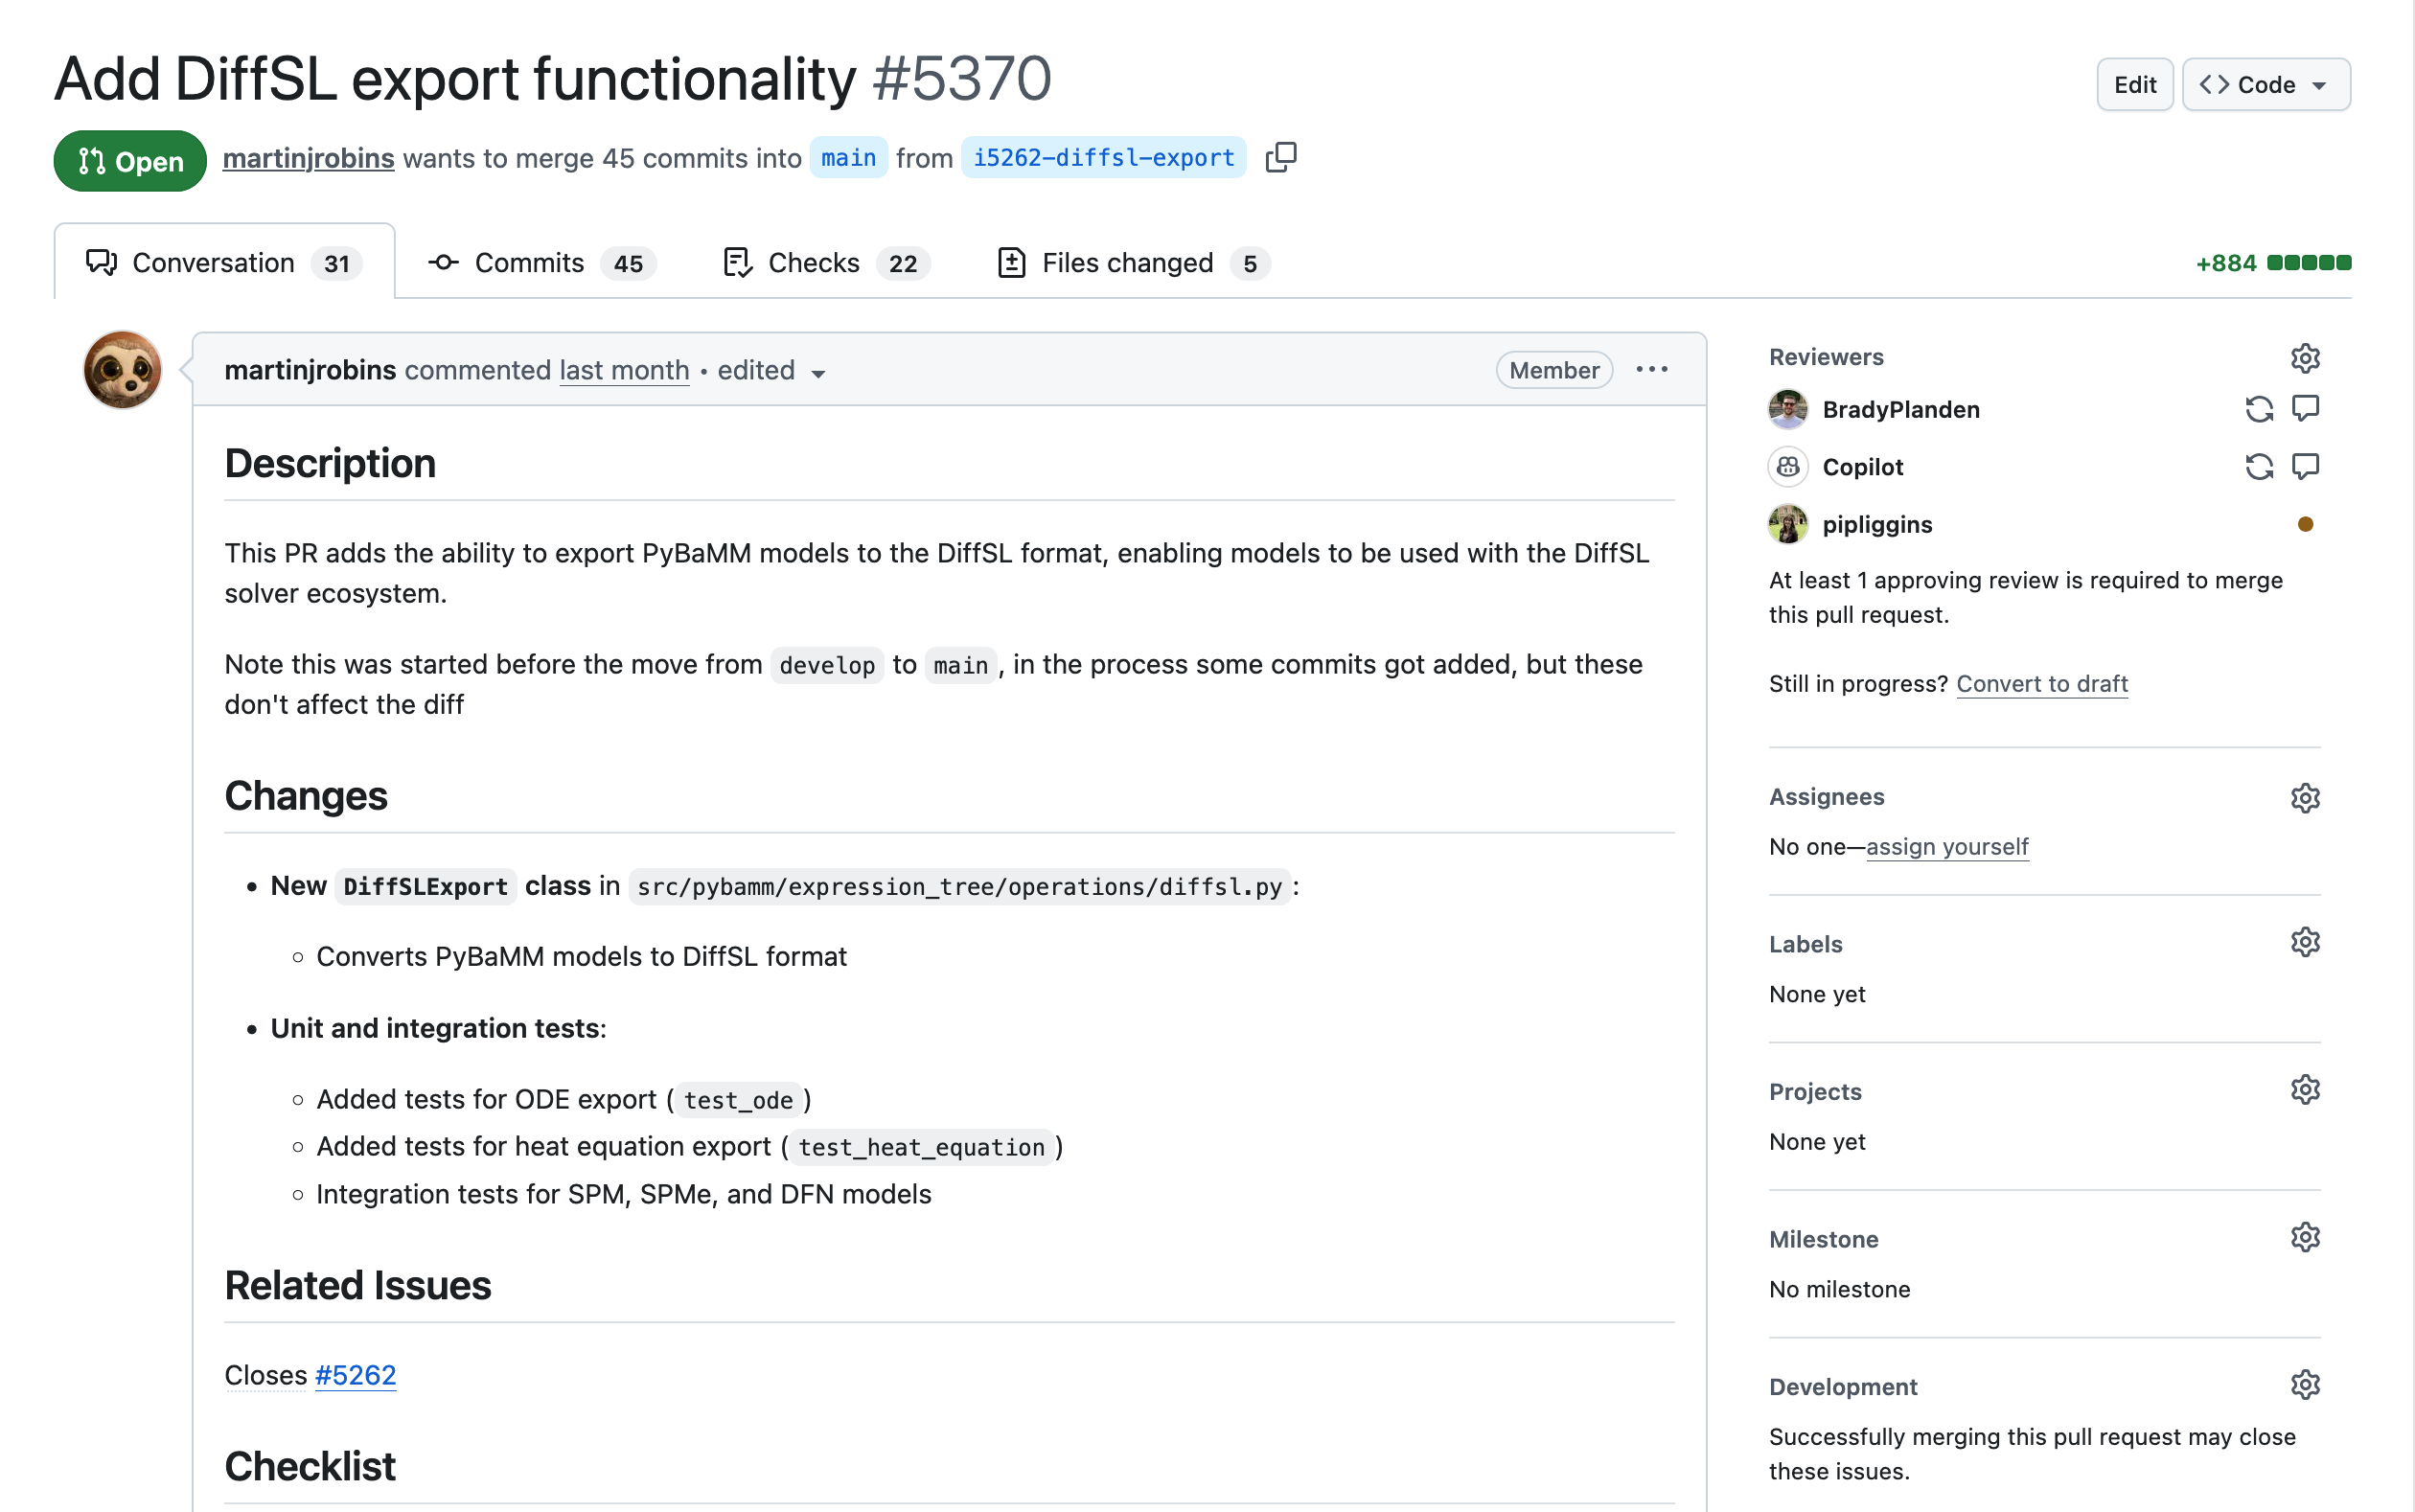
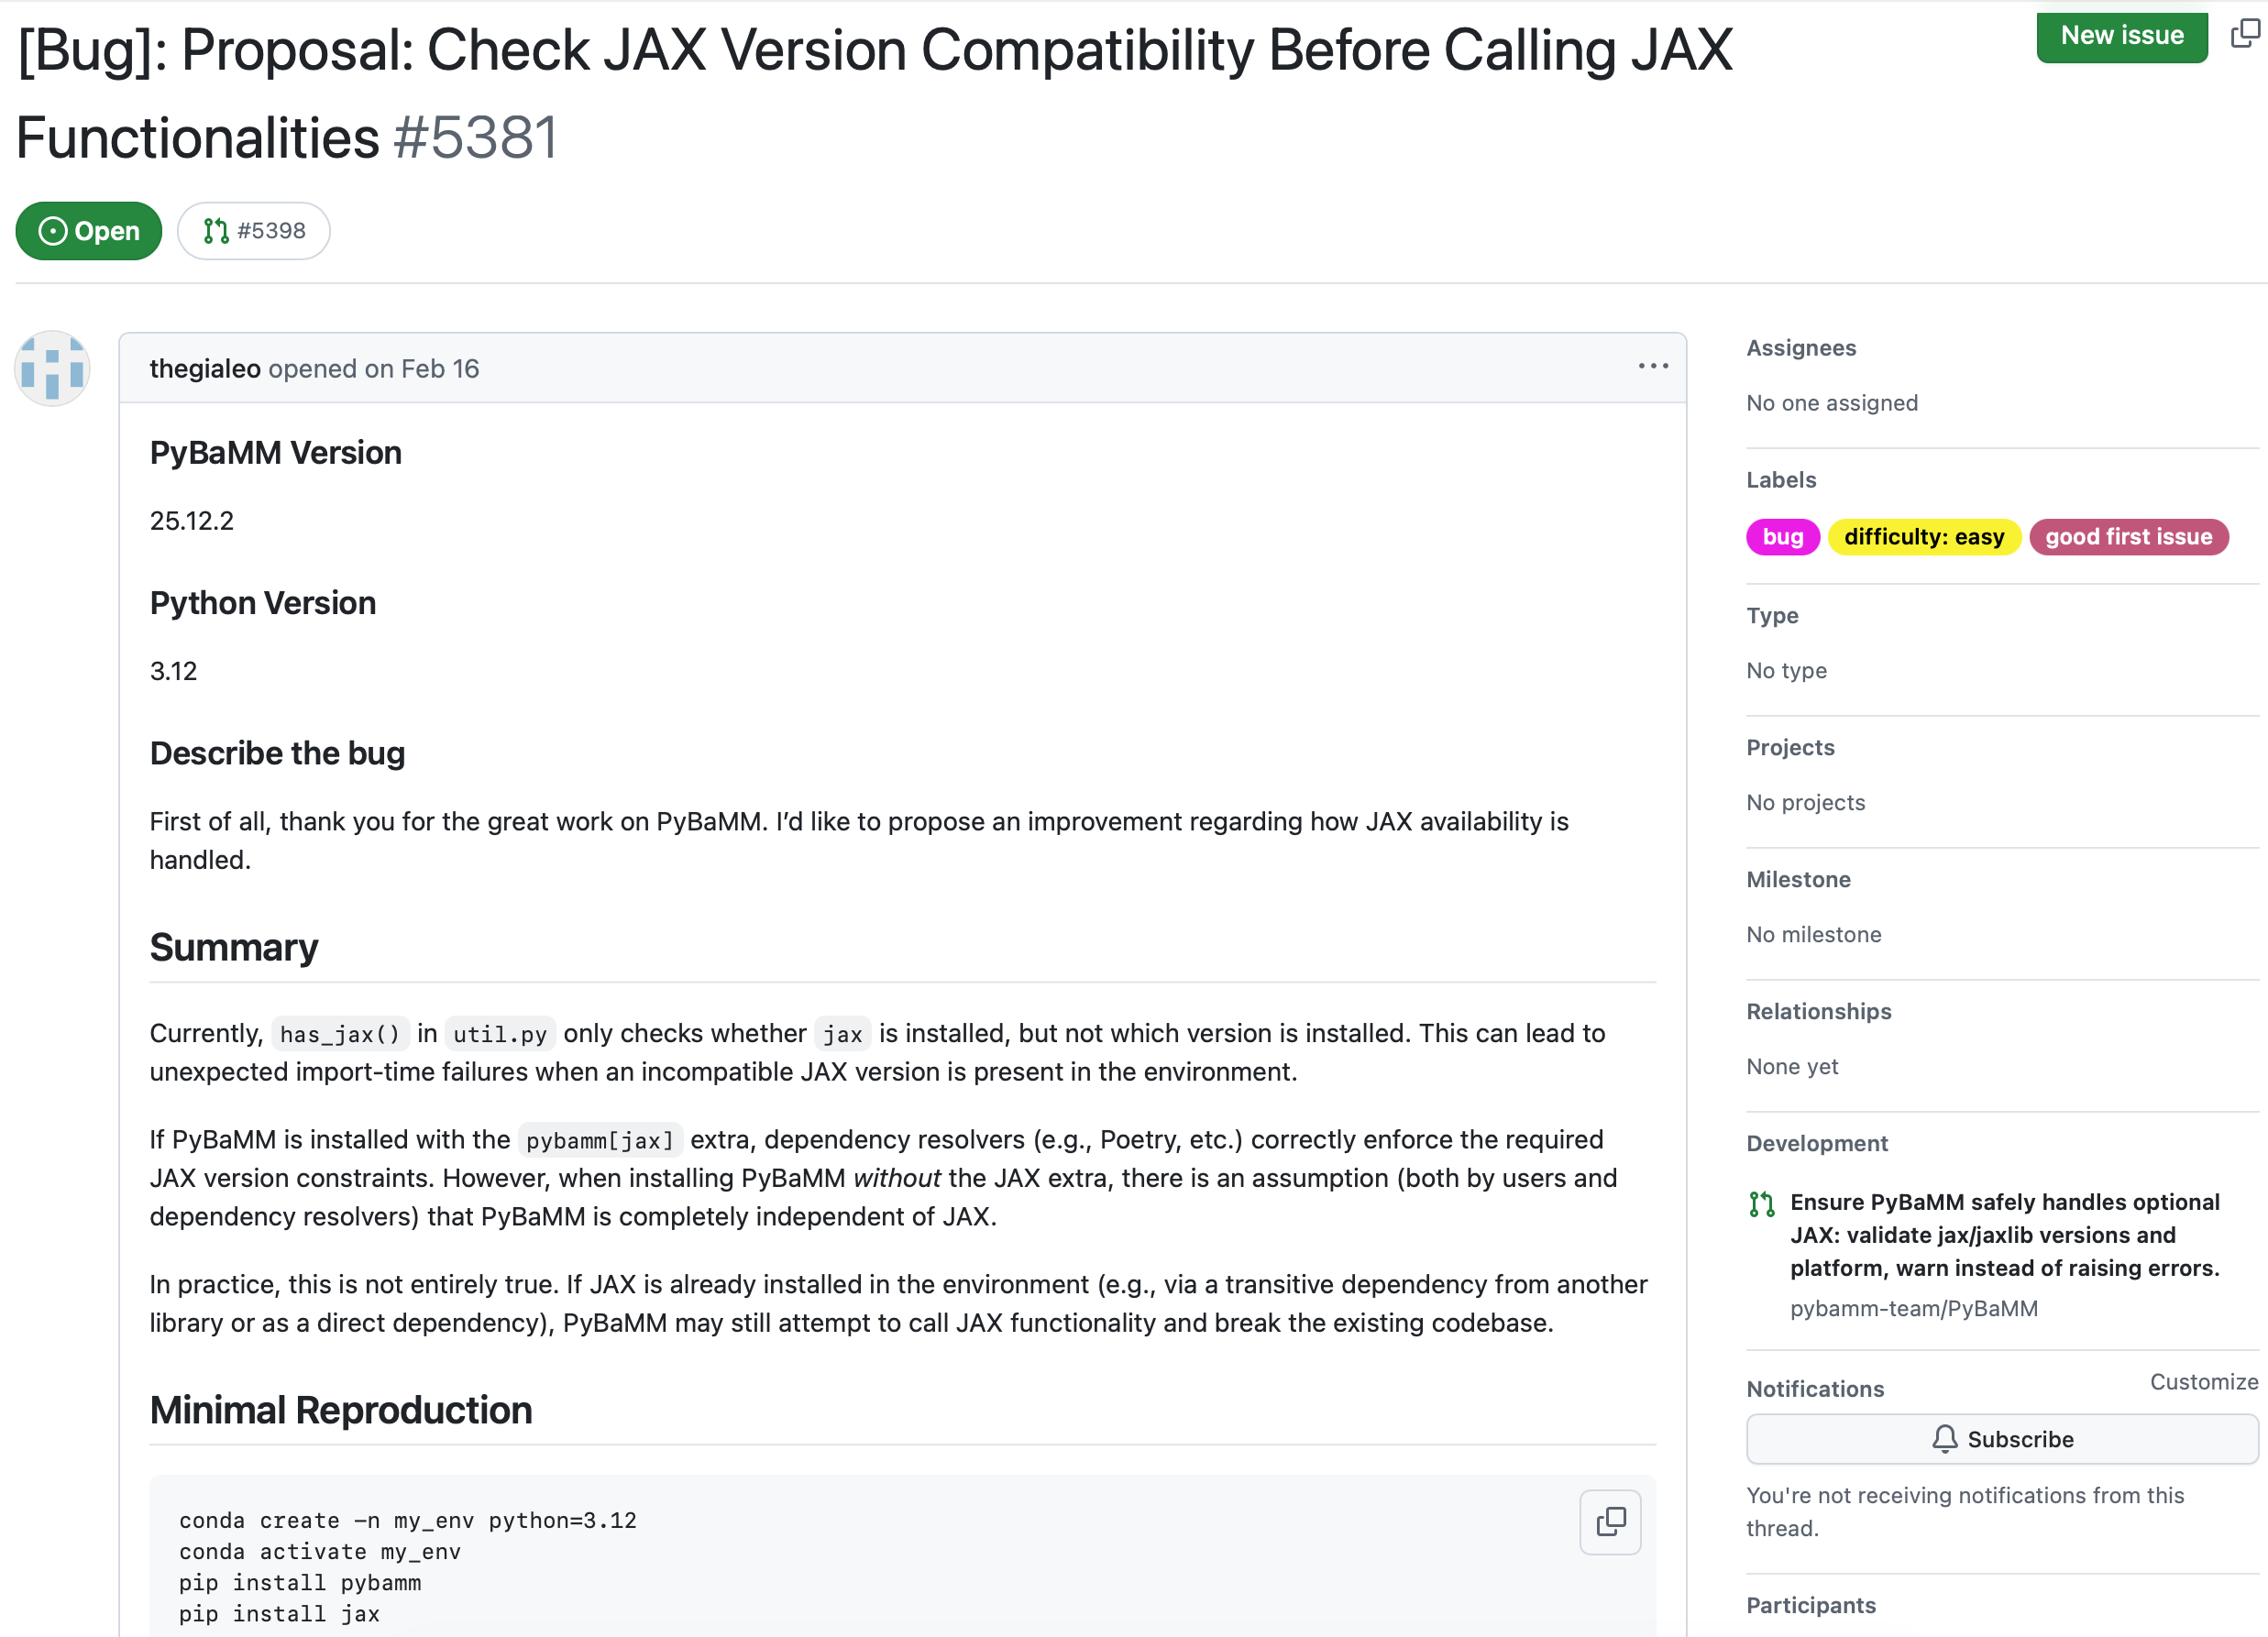
Replace PR screenshot with real gh issue

diff --git a/courses/collaborative_code_development/main.md b/courses/collaborative_code_development/main.md
@@ -153,7 +153,7 @@ layout: two-cols
 
 <div style="display: flex; justify-content: center; align-items: center; gap: 20px; margin: 20px 0;">
   <img src="./imgs/github-issues.png" alt="Github issues" style="width: 35%;" />
-  <img src="./imgs/github-issue-discussion.png" alt="Github issue discussion" style="width: 45%;" />
+  <img src="./imgs/github-issue-discussion.png" alt="Github issue discussion" style="width: 36%;" />
 </div>
 
 ---